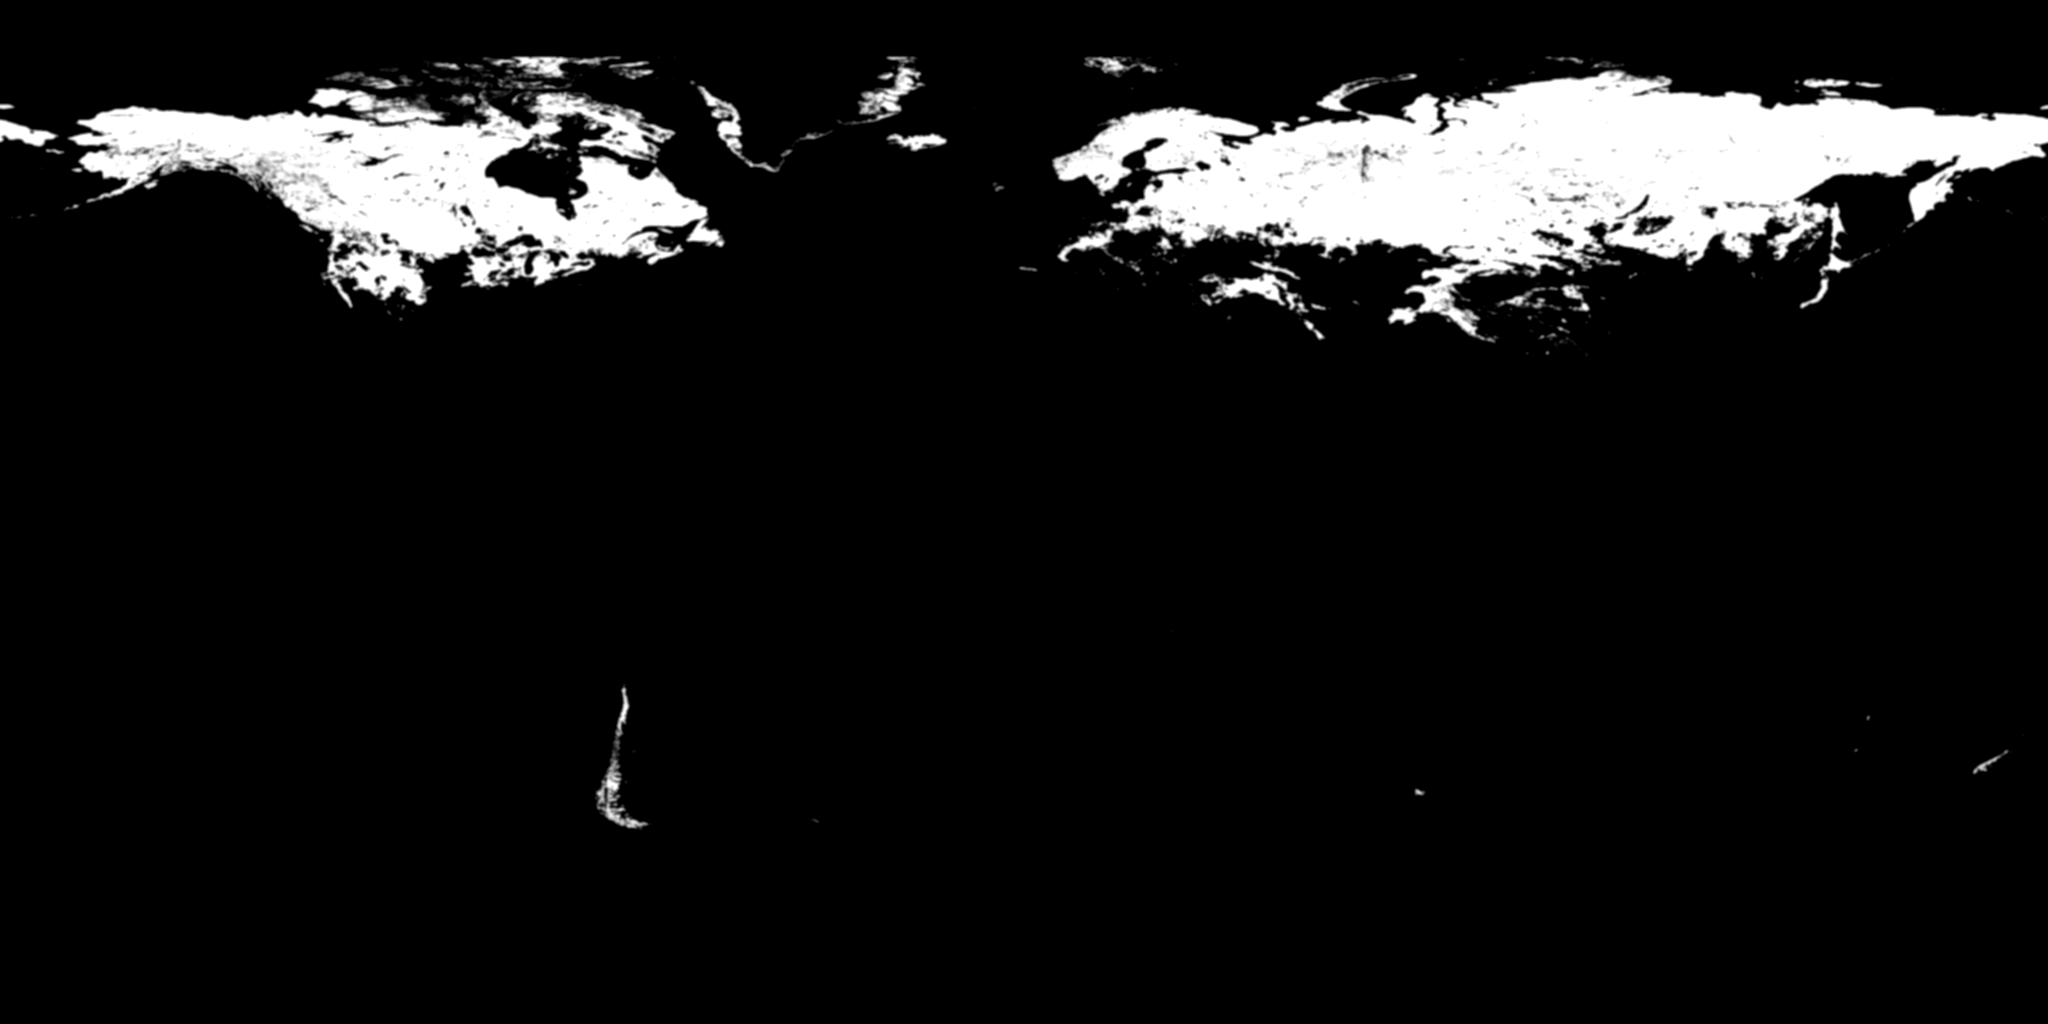
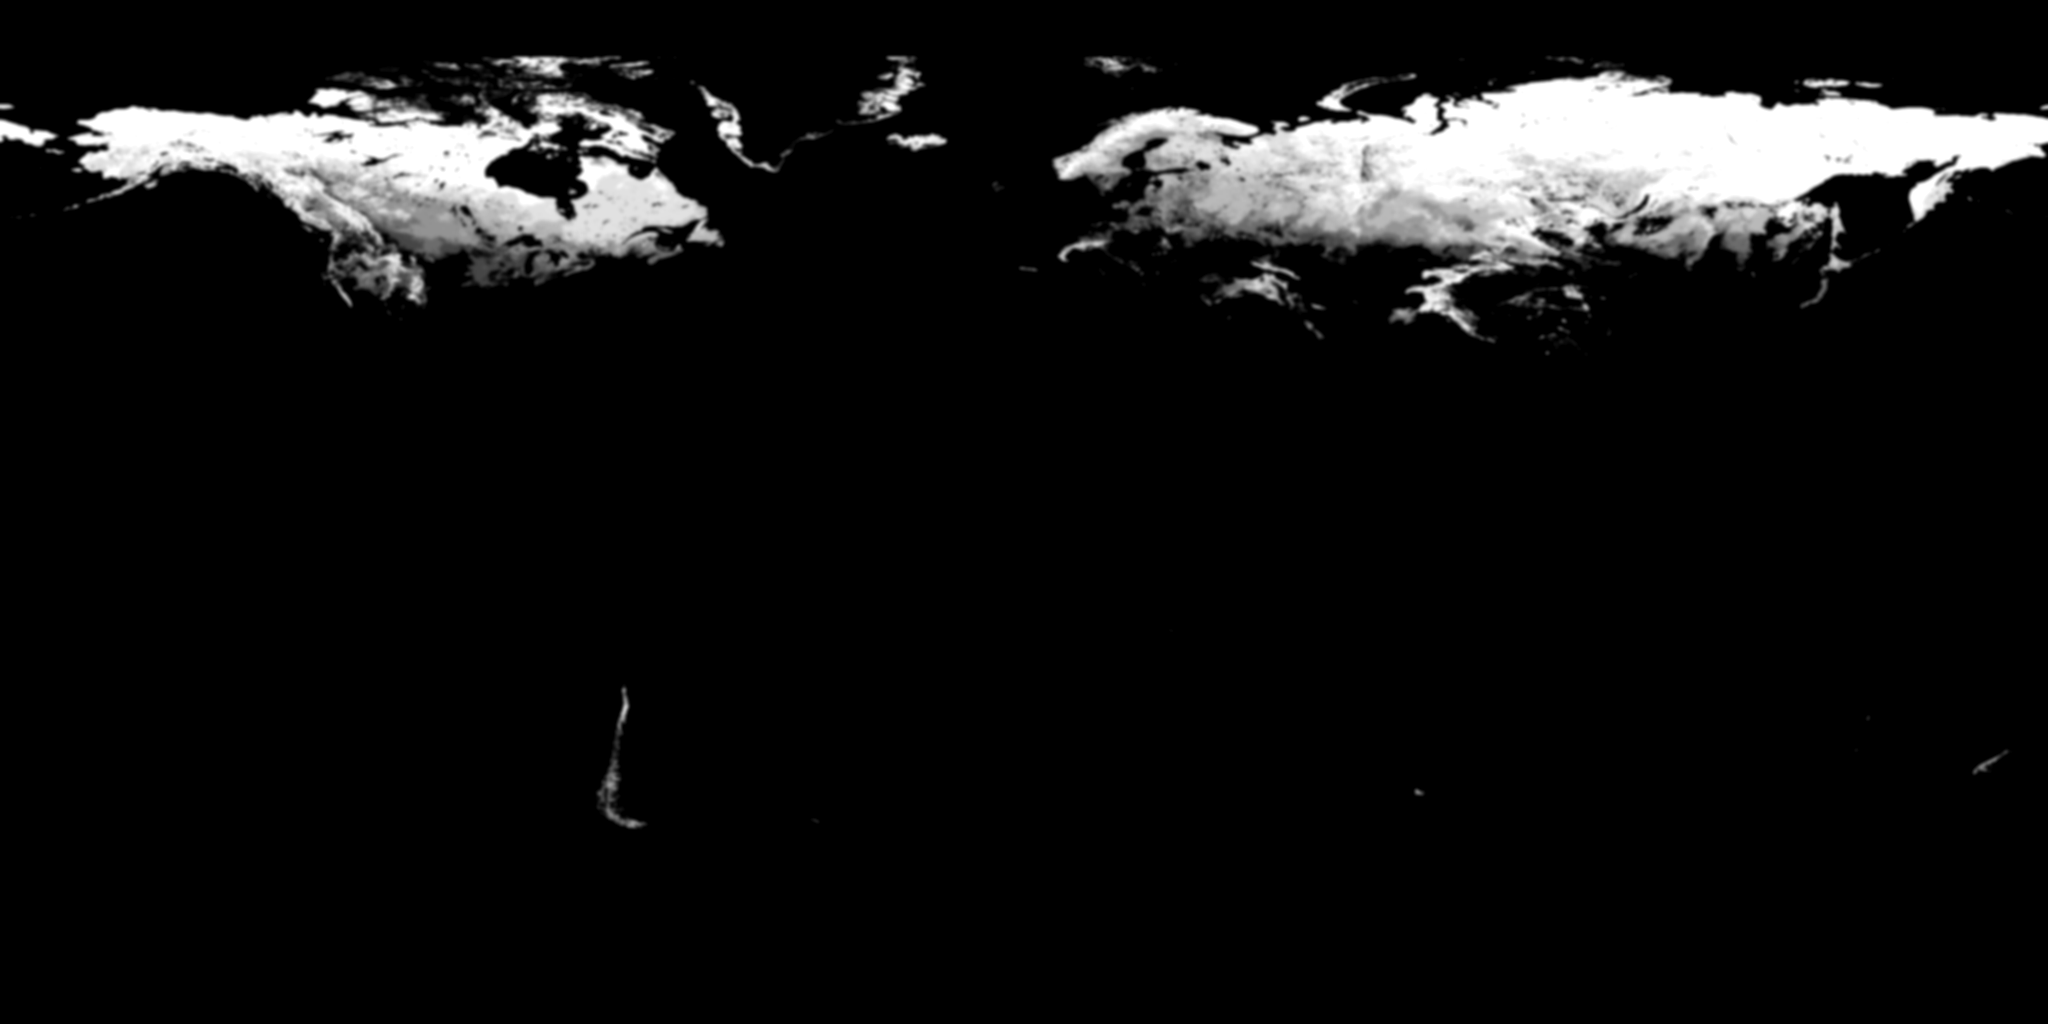
WIP planet: snow by the share of the cold season; it thins out, keeps to the heights [skip ci]
Claude-Session: https://claude.ai/code/session_01CkFqLMvuGhuwnN1DAzGLbd

diff --git a/src/terrain.js b/src/terrain.js
@@ -549,7 +549,12 @@
       //  by latitude alone, were white the year round)
       // (and a winter brings the snow line down only where it brings snow: natv.a, the Earth's own winter. Tibet is high, dry
       //  and all but bare in January; by the latitude's rule alone it was an ice cap for half the year.)
-      float winterSnow = winter * mix(0.12, 1.0, smoothstep(0.05, 0.5, natv.a));
+      // How much of its cold season snow lies here (natv.a: tools/planet/snow.py).
+      float snowMap = natv.a, snowL = 0.5 * log2(max(max(dot(dFdx(vGL), dFdx(vGL)), dot(dFdy(vGL), dFdy(vGL))), 1e-30)) + 9.0;      // (snowL: the level the card would take of the noise at one repeat a radian)
+      // (it comes first to the heights and leaves them last: by the map alone, of cells twenty kilometres across, the snow of the
+      //  Alps ended at one line over ridge and valley alike, and the ranges at a snowy country's edge stood bare beside it)
+      float snowHere = snowMap * (0.8 + min(max(vH, 0.0), 2400.0) * 0.0008);
+      float winterSnow = winter * mix(0.12, 1.0, smoothstep(0.05, 0.5, snowHere));
       float snowLine0 = max(-900.0, 5100.0 - 4800.0 * pow(latN0, 1.3) - max(0.0, winterSnow - 0.4) * seasonK + max(0.0, 0.4 - winter) * seasonK * 0.35) + clim * 700.0 * (1.0 - smoothstep(0.5, 0.75, latN0));
       float ice = max(info.g, white * max(smoothstep(snowLine0 - 900.0, snowLine0 + 200.0, vH), smoothstep(0.7, 0.8, latN0)));
       // biome weights
@@ -583,7 +588,7 @@
       float gOn0 = uTexMix * smoothstep(0.085, 0.02, uCamAlt), gOn = gOn0 * (1.0 - smoothstep(1.47, 1.5, abs(vLat))) * step(max(seaW, lakeW), 0.996) * step(uGndDbg, 4.5);
       float snow = smoothstep(snowLine0 - 150.0, snowLine0 + 700.0, vH) * (1.0 - smoothstep(0.35, 0.7, slope)) * mix(0.06 + 0.94 * white, 0.85, winterSnow * 0.8) * (1.0 - 0.55 * wForest);      // (in summer, where the photograph has it: at 611 m to a texel it knows every snowfield; a wood under snow is dark from above, its floor white between the trees)
       float fall = autumn * decid; float bare = mix(uBare.y, uBare.x, hemi) * smoothstep(0.18, 0.4, latN0) * decid;
-      float dl = 0.45, dl2 = 0.45, forestFar = 1.0, forestOpen = 1.0; vec2 gRel = vec2(0.0); float gRelK = 0.0; vec4 gSnow = vec4(1.0); vec2 gSnowN = vec2(0.0); float gSnowOn = 0.0;      // (gSnow: the snow, once it has been looked up)
+      float dl = 0.45, dl2 = 0.45, forestFar = 1.0, forestOpen = 1.0, gHU = 0.5; vec2 gRel = vec2(0.0); float gRelK = 0.0; vec4 gSnow = vec4(1.0); vec2 gSnowN = vec2(0.0); float gSnowOn = 0.0;      // (gSnow: the snow, once it has been looked up; gHU: how high the ground's own material stands at this pixel)
       vec3 land = base * 0.98;
       gDx = dFdx(vGLf) * uLadK; gDy = dFdy(vGLf) * uLadK;
       if (gOn > 0.002) {
@@ -670,7 +675,7 @@
         // holds on to while the grain of the ground changes under it as it draws back.
         { float veg = wGrass + wForest, lush = (nMic.g - 0.5) * 0.5 + (nFin.r - 0.5) * 0.35 + (nMid.b - 0.43) * 0.35, dryish = (nMic.r - 0.5) * 0.6 + (nFin.g - 0.5) * 0.4;
           tex *= (1.0 + lush * (0.36 + 0.44 * veg) * uGndV) * mix(vec3(1.0), vec3(1.0 + dryish * 0.45, 1.0, 1.0 - dryish * 0.6), veg * uGndV); }
-        dl = clamp(dl, 0.12, 0.9); dl2 = dl;
+        dl = clamp(dl, 0.12, 0.9); dl2 = dl; gHU = hU;
         forestFar = 1.0 - gndFarK(7.0);      // (how much of a wood's floor is seen, and not its canopy: only the floor lies in the trees' shade)
         land = mix(land, tex, gOn * uGndK.y);
         // autumn and winter colours for the deciduous belt; grass dries off in winter
@@ -711,7 +716,7 @@
       vec3 det = dF * wForest + dG * wGrass + dS * wDesert + dR * wRock;
       float dl = dot(det, vec3(0.299, 0.587, 0.114));
       det = mix(vec3(dl) * 0.5 + det * 0.5, det, smoothstep(0.0012, 0.0002, uCamAlt));   // photo grain only reads from low altitude
-      float dl2 = dl;
+      float dl2 = dl, gHU = 0.5;
       // the imagery keeps regional hue and brightness; the photo detail supplies the structure
       vec3 chroma = base / max(lum, 0.03);
       float chromaMix = 0.5 * (wForest + wGrass) + 0.3 * wDesert + 0.08 * wRock;
@@ -918,29 +923,36 @@
       // winter where winters are white: snow lies over the country for as long as the climate keeps it (weeks in a mild
       // one, and then in patches; half the year in the taiga). Beaten tracks and trodden town ground show through.
       float snowLying = 0.0, snowCov = 0.0;
-      { float cold = info.b;
+      { float cold = info.b, coldNow = mix(uBare.w, uBare.z, hemi);
         #ifdef INFO2
-        // (Where: as the Earth's own winter has it - tools/planet/snow.py holds each hemisphere's January against its July. By the
-        //  climate's class alone a cold desert lay white from the Tarim to the Namib and a tundra from Siberia to the Puna of
-        //  the Andes, and Tibet, dry and all but bare in winter, was an ice cap. How long it lies is still the climate's.)
-        cold = max(cold, 0.35 * natv.a); float thr = 1.02 - 0.55 * cold;
-        // (And up a hillside before the plain under it: the map is of cells twenty kilometres across, and by it alone the snow of
-        //  the Alps ended at a round line drawn over ridge and valley alike. At its edge the snow keeps to the heights.)
-        float lying = smoothstep(thr, thr + 0.1, mix(uBare.w, uBare.z, hemi)) * smoothstep(0.06, 0.7, natv.a * (0.62 + min(max(vH, 0.0), 2200.0) / 1500.0)); snowLying = lying;
+        // (Where, and for how much of the year: as the Earth has it - the share of a cold season's seven months in which snow lay
+        //  there (snowMap, above). By the climate's class alone a cold desert lay white from the Tarim to the Namib and a tundra
+        //  from Siberia to the Puna of the Andes, and Tibet, dry and all but bare in winter, was an ice cap.
+        //  And it does not end at a line: it thins out over a hundred kilometres and more, lying on open ground long
+        //  after the woods show dark through it. The noise of the place roughens its edge from close to, and is left out from
+        //  where its grain is too small to see: read that coarse a noise is a lattice, and the snow's edge was a row of
+        //  scallops. (Nor is there any noise the size of a country in it: thinning out by that, the snow of a plain seen from
+        //  far out was white puffs on green, like cloud.)
+        float rag = (nMac.g - 0.512) * 0.5 * (1.0 - smoothstep(3.0, 5.5, snowL + 7.23)) + (nMid.g - 0.512) * 0.3 * (1.0 - smoothstep(3.0, 5.5, snowL + 10.23));
+        float sn = snowHere + rag * smoothstep(0.0, 0.15, snowMap);
+        float lying = clamp((sn - 0.07 - (1.0 - coldNow) * 1.15) / 0.45, 0.0, 1.0); snowLying = lying;
         #else
         // (Snow lies on low ground only well away from the tropics. By the climate's map a cold desert is the Namib too, and a tundra
         //  the Puna of the Andes: each lay under a white sheet all its winter. Climates of mild winters keep snow from some forty
         //  degrees, or high up; the hard ones wherever they are found outside the tropics.)
         cold *= smoothstep(0.30, 0.42, latN0) * mix(smoothstep(0.34, 0.46, latN0 + max(vH - 800.0, 0.0) / 7000.0), 1.0, smoothstep(0.55, 0.72, cold));
         float thr = 1.02 - 0.55 * cold;
-        float lying = smoothstep(thr, thr + 0.1, mix(uBare.w, uBare.z, hemi)) * smoothstep(0.08, 0.5, cold); snowLying = lying;
+        float lying = smoothstep(thr, thr + 0.1, coldNow) * smoothstep(0.08, 0.5, cold); snowLying = lying;
         #endif
         if (lying > 0.003) {
-          // (where it thins out it lies in patches, and the patches are of a size the eye can make out from where it is: from far
-          //  out the grain that breaks the snow's edge up from close to is too small to see, and the snow ended at a line)
-          float cover = smoothstep(1.0 - lying * 1.15, 1.15 - lying * 1.15, mix(nMid.r * 0.55 + nMic.g * 0.3 + nFin.b * 0.15, nMac.g * 0.45 + nMid.r * 0.55, smoothstep(0.03, 0.12, uCamAlt)));
-          // (a wood under snow is dark from above: the snow is on its floor, and the eye sees the trees)
-          cover *= (1.0 - smoothstep(0.3, 0.65, slope)) * (1.0 - 0.75 * smoothstep(0.4, 0.7, dec.b)) * (1.0 - 0.45 * smoothstep(0.04, 0.22, dec.b)) * (1.0 - wForest * mix(0.5, 0.3, bare));
+          // (where it thins out it lies on open ground before the woods - the photograph's own light and dark say which is which -
+          //  and from close to in the hollows of the ground, in patches, as the snow of the heights does. From far there is no
+          //  grain to make patches of: cut off at a line there, the thinning snow of a plain was white pancakes on green; it
+          //  fades as it thins.)
+          float open = clamp((lum - 0.17) * 3.0, -0.45, 0.45) * (1.0 - lying) * smoothstep(0.0, 0.25, lying);
+          float cover = mix(smoothstep(0.35, 0.65, lying + ((0.5 - gHU) * 0.6 + (nFin.b - 0.43) * 0.3) * (1.0 - lying) * smoothstep(0.0, 0.25, lying) + open * 0.5), smoothstep(0.0, 1.0, lying + open * 0.6), smoothstep(0.004, 0.03, uCamAlt));
+          // (a wood under snow is dark from above: the snow is on its floor, and the eye sees the trees - through bare boughs more of it)
+          cover *= (1.0 - smoothstep(0.3, 0.65, slope)) * (1.0 - 0.75 * smoothstep(0.4, 0.7, dec.b)) * (1.0 - 0.45 * smoothstep(0.04, 0.22, dec.b)) * (1.0 - wForest * mix(0.45, 0.2, bare));
           vec3 snowCol = vec3(0.92, 0.94, 0.97) * (0.82 + dl2 * 0.2);
           #ifdef USE_TEXARR
           #ifdef USE_GROUND

diff --git a/src/trees.js b/src/trees.js
@@ -263,15 +263,14 @@
       if (climateUrl) img(climateUrl).then((c) => { this.climate = c; for (const L of this.last) L.t = -1e9; }).catch((e) => console.warn('climate', e));
       if (snowUrl) img(snowUrl).then((c) => { this.snow = c; }).catch((e) => console.warn('snow', e));
     }
-    // How much of the ground snow covers at a place just now (0..1), the twin of the ground shader's rule: where, as the Earth's own
-    // winter has it (data/snow.png: tools/planet/snow.py); how long, by how hard the climate's winters are. cold: the cold of the
-    // year in that hemisphere (0..1, a month behind the sun). Roofs and boughs go white by it with the ground.
-    // h: how high the place lies, in metres (at the snow's edge it keeps to the heights: a hillside is white before the plain under it).
+    // How much of the ground snow covers at a place just now (0..1), the twin of the ground shader's rule (without the grain of
+    // its edge): where and for how much of the year, as the Earth has it (data/snow.png, the share of a cold season in which snow
+    // lay there: tools/planet/snow.py); sooner and longer on the heights. cold: the cold of the year in that hemisphere
+    // (0..1, a month behind the sun); h: how high the place lies, in metres. Roofs and boughs go white by it with the ground.
     lyingAt(lon, lat, coldYear, h) {
-      let cold = Trees.COLD[this.climateAt(lon, lat)] || 0;
-      if (!this.snow) { const thr = 1.02 - 0.55 * cold; return smooth(thr, thr + 0.1, coldYear) * smooth(0.08, 0.5, cold); }
-      const sn = this.snow, real = this.samp(sn, (lon + 180) / 360 * sn.width, (90 - lat) / 180 * sn.height, 0); cold = Math.max(cold, 0.35 * real);
-      const thr = 1.02 - 0.55 * cold; return smooth(thr, thr + 0.1, coldYear) * smooth(0.06, 0.7, real * (0.62 + Math.min(Math.max(h || 0, 0), 2200) / 1500));
+      if (!this.snow) { const cold = Trees.COLD[this.climateAt(lon, lat)] || 0, thr = 1.02 - 0.55 * cold; return smooth(thr, thr + 0.1, coldYear) * smooth(0.08, 0.5, cold); }
+      const sn = this.snow, real = this.samp(sn, (lon + 180) / 360 * sn.width, (90 - lat) / 180 * sn.height, 0);
+      return Math.min(1, Math.max(0, (real * (0.8 + Math.min(Math.max(h || 0, 0), 2400) * 0.0008) - 0.07 - (1 - coldYear) * 1.15) / 0.45));
     }
     // bilinear sample of an ImageData channel at fractional pixel coords (wrapping x)
     samp(id, fx, fy, ch) {

diff --git a/tools/planet/snow.py b/tools/planet/snow.py
@@ -56,7 +56,8 @@ for k in range(7):
     mn, ms = COLD[True][k], COLD[False][k]
     a = np.where(north[..., None], jan if mn == 1 else month(mn), jul if ms == 7 else month(ms)); lw = lum(a)
     # snow: lighter than the summer by a good deal, and without colour; a wood under snow is grey, not white, and far darker than a field
-    snow += ss(0.08, 0.22, lw - ls) * grey(a) * ss(0.22, 0.38, lw) * (1.0 - sea) / 7.0
+    # (bare boughs without snow are lighter than the summer's leaves too, but brown)
+    snow += ss(0.08, 0.22, lw - ls) * grey(a) * ss(0.16, 0.30, lw) * (1.0 - sea) / 7.0
     del a, lw
 # (to the map's own cells, then smoothed over some sixty kilometres: what is left of a month's yes or no is how likely it is)
 snow = np.array(Image.fromarray(np.rint(snow * 255).astype(np.uint8)).resize((W, H), Image.BOX).filter(ImageFilter.GaussianBlur(1.6))).astype(np.float32) / 255.0
